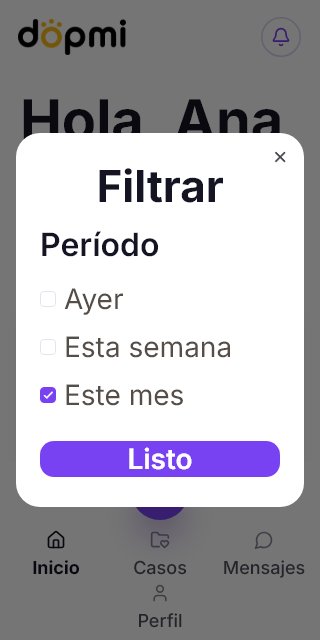
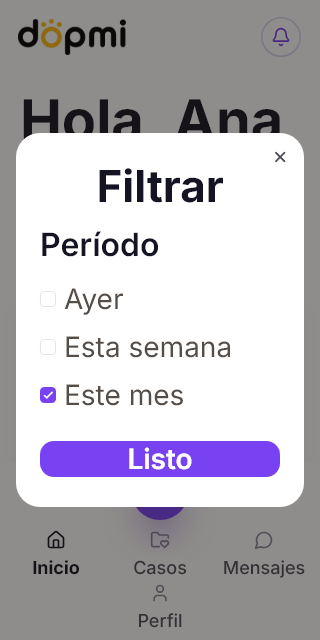
fix(mobile): match delta dialog backdrop and height

diff --git a/apps/mobile/lib/features/rescue/rescuer_home_screen.dart b/apps/mobile/lib/features/rescue/rescuer_home_screen.dart
@@ -489,6 +489,8 @@ class _RescuerHomeDashboardState extends ConsumerState<RescuerHomeDashboard> {
   Future<void> _filterPeriod() async {
     final selected = await showDialog<String>(
       context: context,
+      barrierColor: const Color(0xff15110d).withValues(alpha: .48),
+      barrierLabel: 'Cerrar filtro de período',
       builder: (_) => _HomePeriodDialog(
         period: period,
         onChanged: (value) {
@@ -590,9 +592,13 @@ class _HomePeriodDialogState extends State<_HomePeriodDialog> {
   Widget build(BuildContext context) => Dialog(
     insetPadding: const EdgeInsets.all(16),
     backgroundColor: Colors.white,
+    elevation: 0,
     shape: RoundedRectangleBorder(borderRadius: BorderRadius.circular(24)),
     child: ConstrainedBox(
-      constraints: const BoxConstraints(maxWidth: 400),
+      constraints: BoxConstraints(
+        maxWidth: 400,
+        maxHeight: MediaQuery.sizeOf(context).height * .88,
+      ),
       child: Stack(
         children: [
           SingleChildScrollView(
@@ -1541,6 +1547,8 @@ class _HomePhotoTipsState extends State<_HomePhotoTips> {
         child: InkWell(
           onTap: () => showDialog<void>(
             context: context,
+            barrierColor: const Color(0xff15110d).withValues(alpha: .48),
+            barrierLabel: 'Cerrar consejos para fotos',
             builder: (_) => const _HomePhotoTipsDialog(),
           ),
           onHighlightChanged: (value) => setState(() => pressed = value),
@@ -1640,10 +1648,14 @@ class _HomePhotoTipsDialog extends StatelessWidget {
   @override
   Widget build(BuildContext context) => Dialog(
     backgroundColor: Colors.white,
+    elevation: 0,
     insetPadding: const EdgeInsets.all(20),
     shape: RoundedRectangleBorder(borderRadius: BorderRadius.circular(24)),
     child: ConstrainedBox(
-      constraints: const BoxConstraints(maxWidth: 340),
+      constraints: BoxConstraints(
+        maxWidth: 340,
+        maxHeight: MediaQuery.sizeOf(context).height * .88,
+      ),
       child: Stack(
         children: [
           SingleChildScrollView(

diff --git a/docs/parity-current-review.md b/docs/parity-current-review.md
@@ -1,5 +1,20 @@
 # Cierre de paridad — tablero vigente
 
+## 7/10/2026 — Delta visual cerrada; gate móvil aprobado
+
+Gate móvil37720236365/job113125973662 en9708a7575ebbf19ec8ebe2a4262bbd18f3e44aff
+comprobado completed/success: formato, analyze, suite, ambas capturas y APK.
+Backend/iOS reutilizados del gate full37574438050 por código intacto.
+Último ajuste sólo de pintura/altura: backdrop rgba(21,17,13,.48), elevación0
+máximo88% del viewport en filtro y tips, según CSS9ced congelado.
+Cinco checks focalizados46914 aprobados (teclado, dos capturas normales y dos
+200%); tips permite desplazar hasta Entendido y cerrar. Imágenes examinadas.
+Analyze60233 sin incidencias en16.4s. La CI9708 precede este ajuste visual;
+se reutilizan sus suites intactas con estas comprobaciones nuevas, y se exige
+compilación/publicación del SHA final en Codemagic. No atribuirle CI del nuevoSHA.
+CM permanece1/2; siguiente candidato corregido2/2, Play y QA sólo delta Samsung.
+La paridad anterior permanece aceptada por el titular; sin ampliar inventario.
+
 ## 7/10/2026 — Gate91aa8cf aprobado; control nativo de período preservado
 
 CI37718107631/job113119217981 terminó success: formato, analyze, suite móvil,

diff --git a/docs/progress.md b/docs/progress.md
@@ -1,5 +1,20 @@
 # Dopmi — registro de avance
 
+## 7/10/2026 — Delta visual cerrada; gate móvil aprobado
+
+Gate móvil37720236365/job113125973662 en9708a7575ebbf19ec8ebe2a4262bbd18f3e44aff
+comprobado completed/success: formato, analyze, suite, ambas capturas y APK.
+Backend/iOS reutilizados del gate full37574438050 por código intacto.
+Último ajuste sólo de pintura/altura: backdrop rgba(21,17,13,.48), elevación0
+máximo88% del viewport en filtro y tips, según CSS9ced congelado.
+Cinco checks focalizados46914 aprobados (teclado, dos capturas normales y dos
+200%); tips permite desplazar hasta Entendido y cerrar. Imágenes examinadas.
+Analyze60233 sin incidencias en16.4s. La CI9708 precede este ajuste visual;
+se reutilizan sus suites intactas con estas comprobaciones nuevas, y se exige
+compilación/publicación del SHA final en Codemagic. No atribuirle CI del nuevoSHA.
+CM permanece1/2; siguiente candidato corregido2/2, Play y QA sólo delta Samsung.
+La paridad anterior permanece aceptada por el titular; sin ampliar inventario.
+
 ## 7/10/2026 — Gate91aa8cf aprobado; control nativo de período preservado
 
 CI37718107631/job113119217981 terminó success: formato, analyze, suite móvil,

diff --git a/docs/mock-sync-current.md b/docs/mock-sync-current.md
@@ -36,7 +36,9 @@ Estado: comparación esencial delta cerrada y correcciones en91aa8cf;
 [gate móvil37718107631](https://github.com/albertoquiroga-ctrl/dopmi-app/actions/runs/37718107631)
 aprobado completo. RadioGroup nativo preservado en9708a75, teclado1/1 y
 200%9/9 aprobados. [Gate final37720236365](https://github.com/albertoquiroga-ctrl/dopmi-app/actions/runs/37720236365)
-comprobado en curso, source9708a7575ebbf19ec8ebe2a4262bbd18f3e44aff.
+aprobado completo, source9708a7575ebbf19ec8ebe2a4262bbd18f3e44aff.
+Ajuste final de backdrop/elevación/altura88%:5checks46914 aprobados, analyze60233
+sin incidencias; reutilizar suites intactas y compilar SHA final en CM2/2.
 CM1/2; ninguna corrección publicada. Siguiente: resultado final y build2/2.
 Play/Samsung300 aún anterior. No repetir QA anterior.
 
